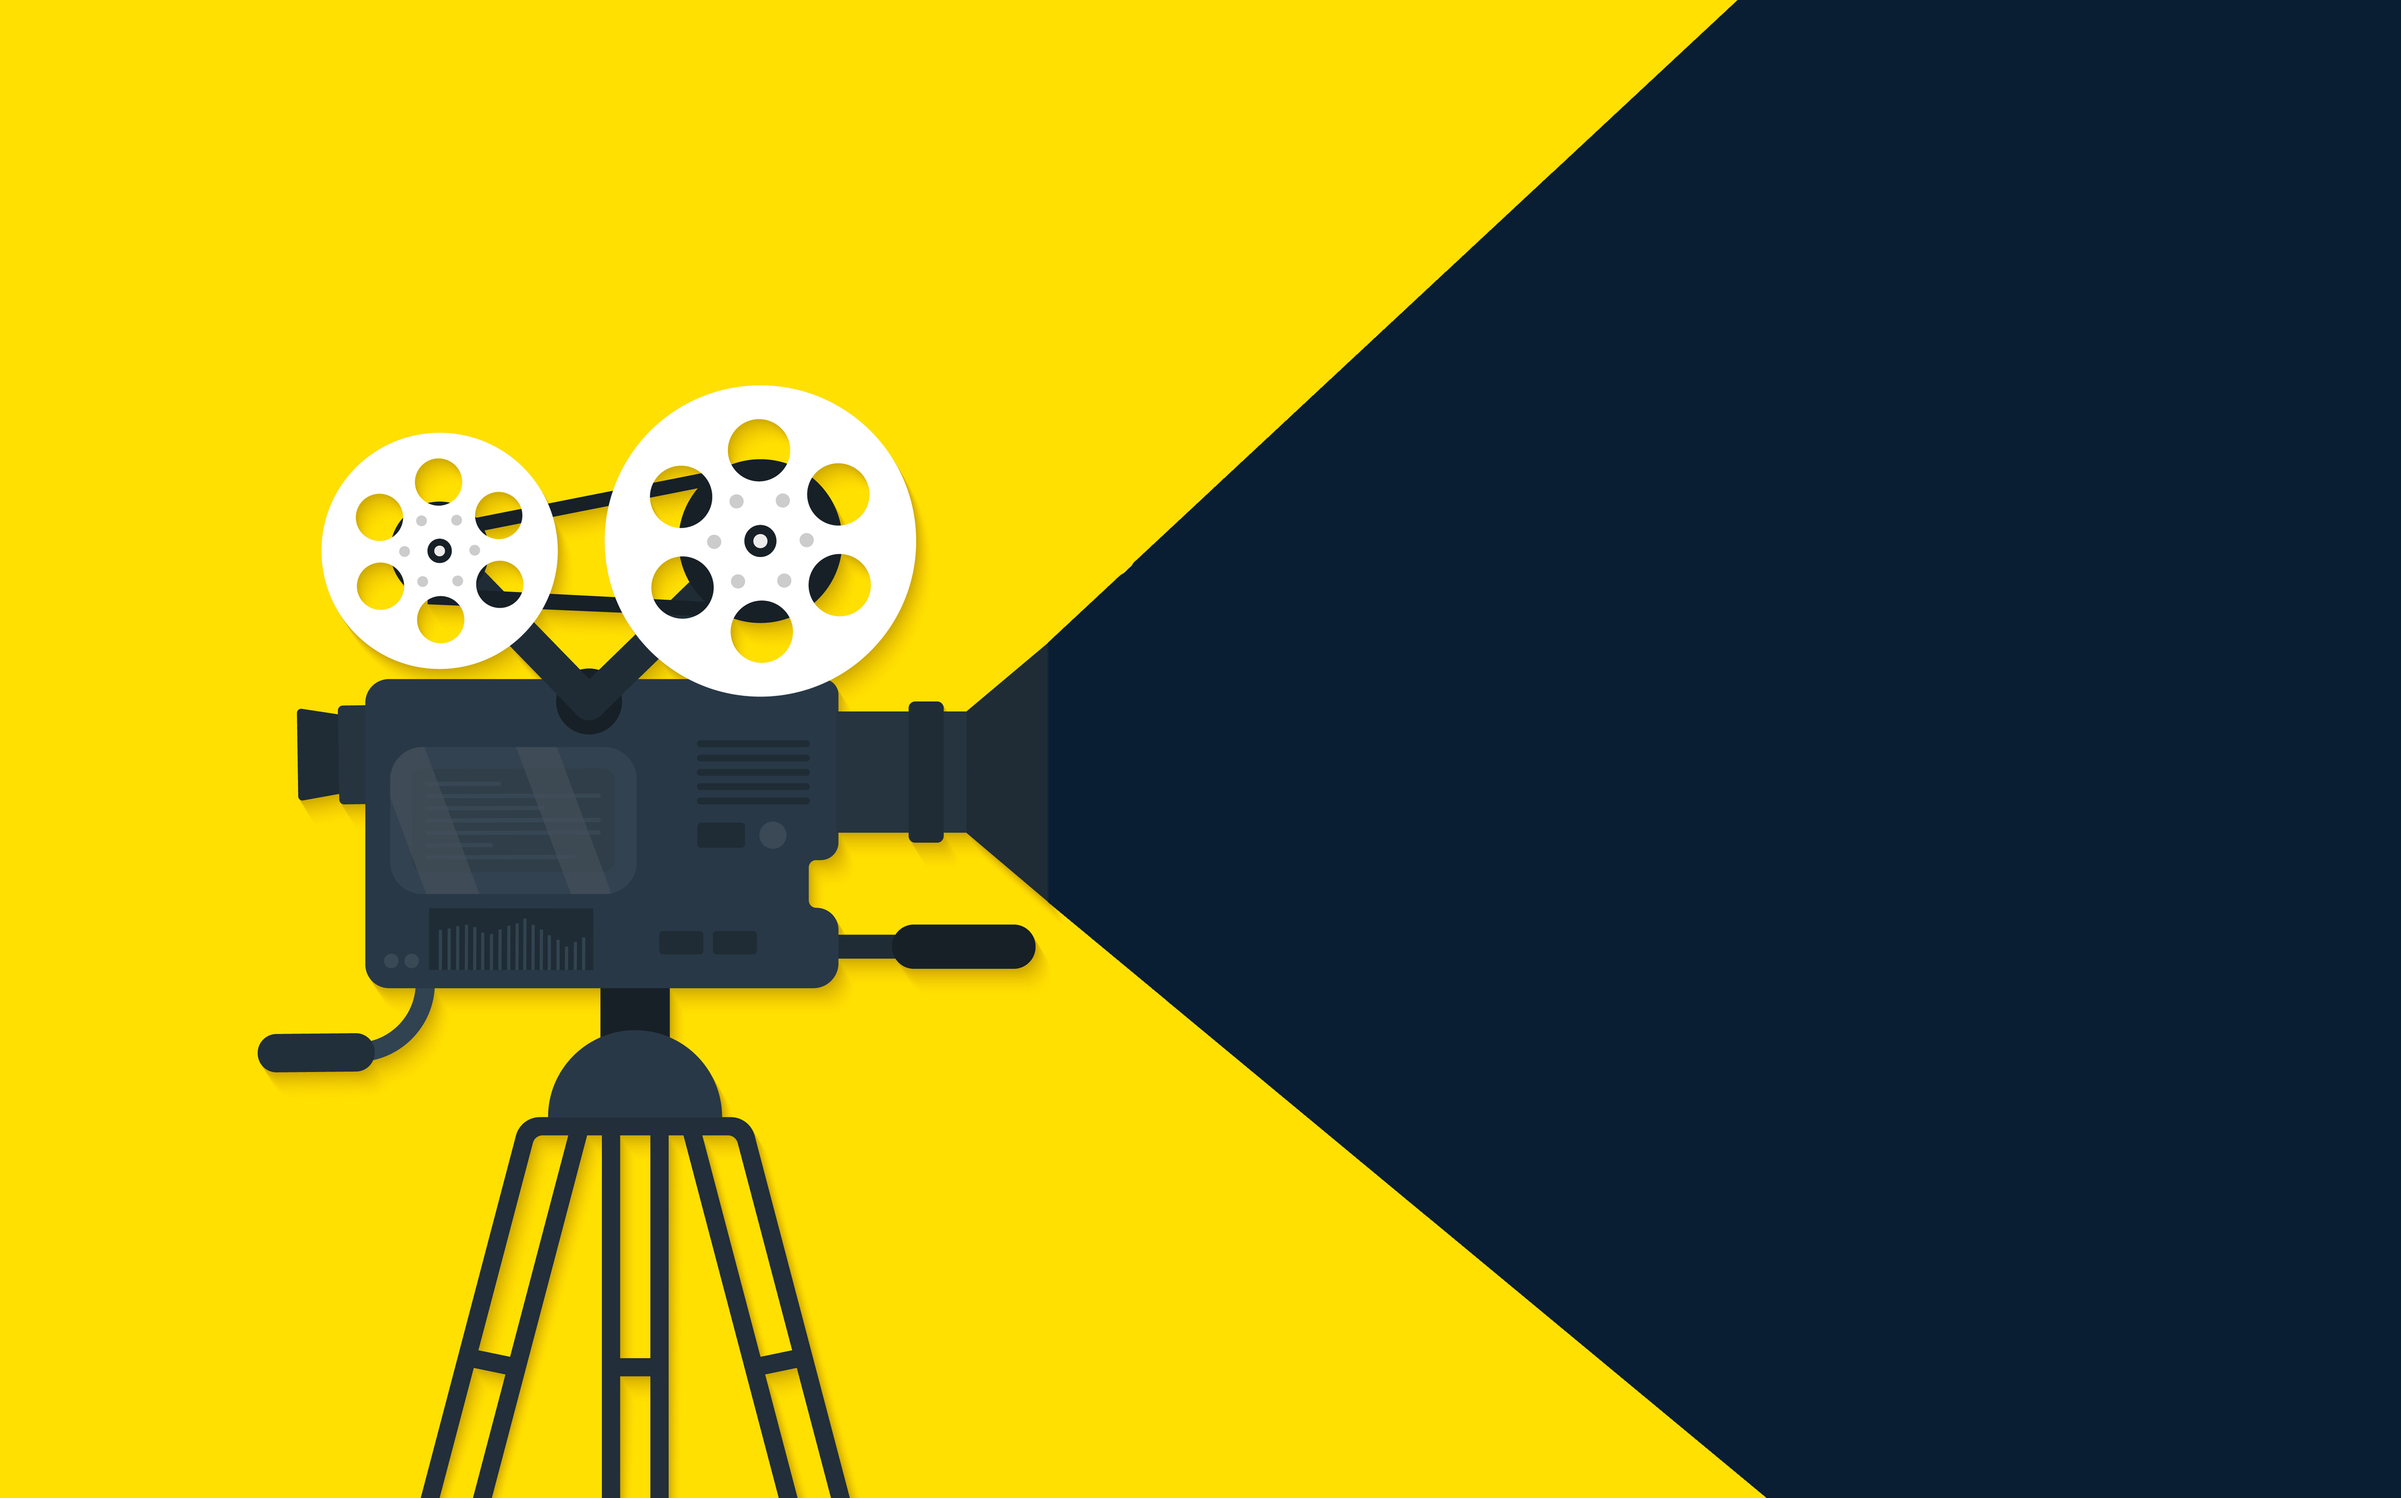
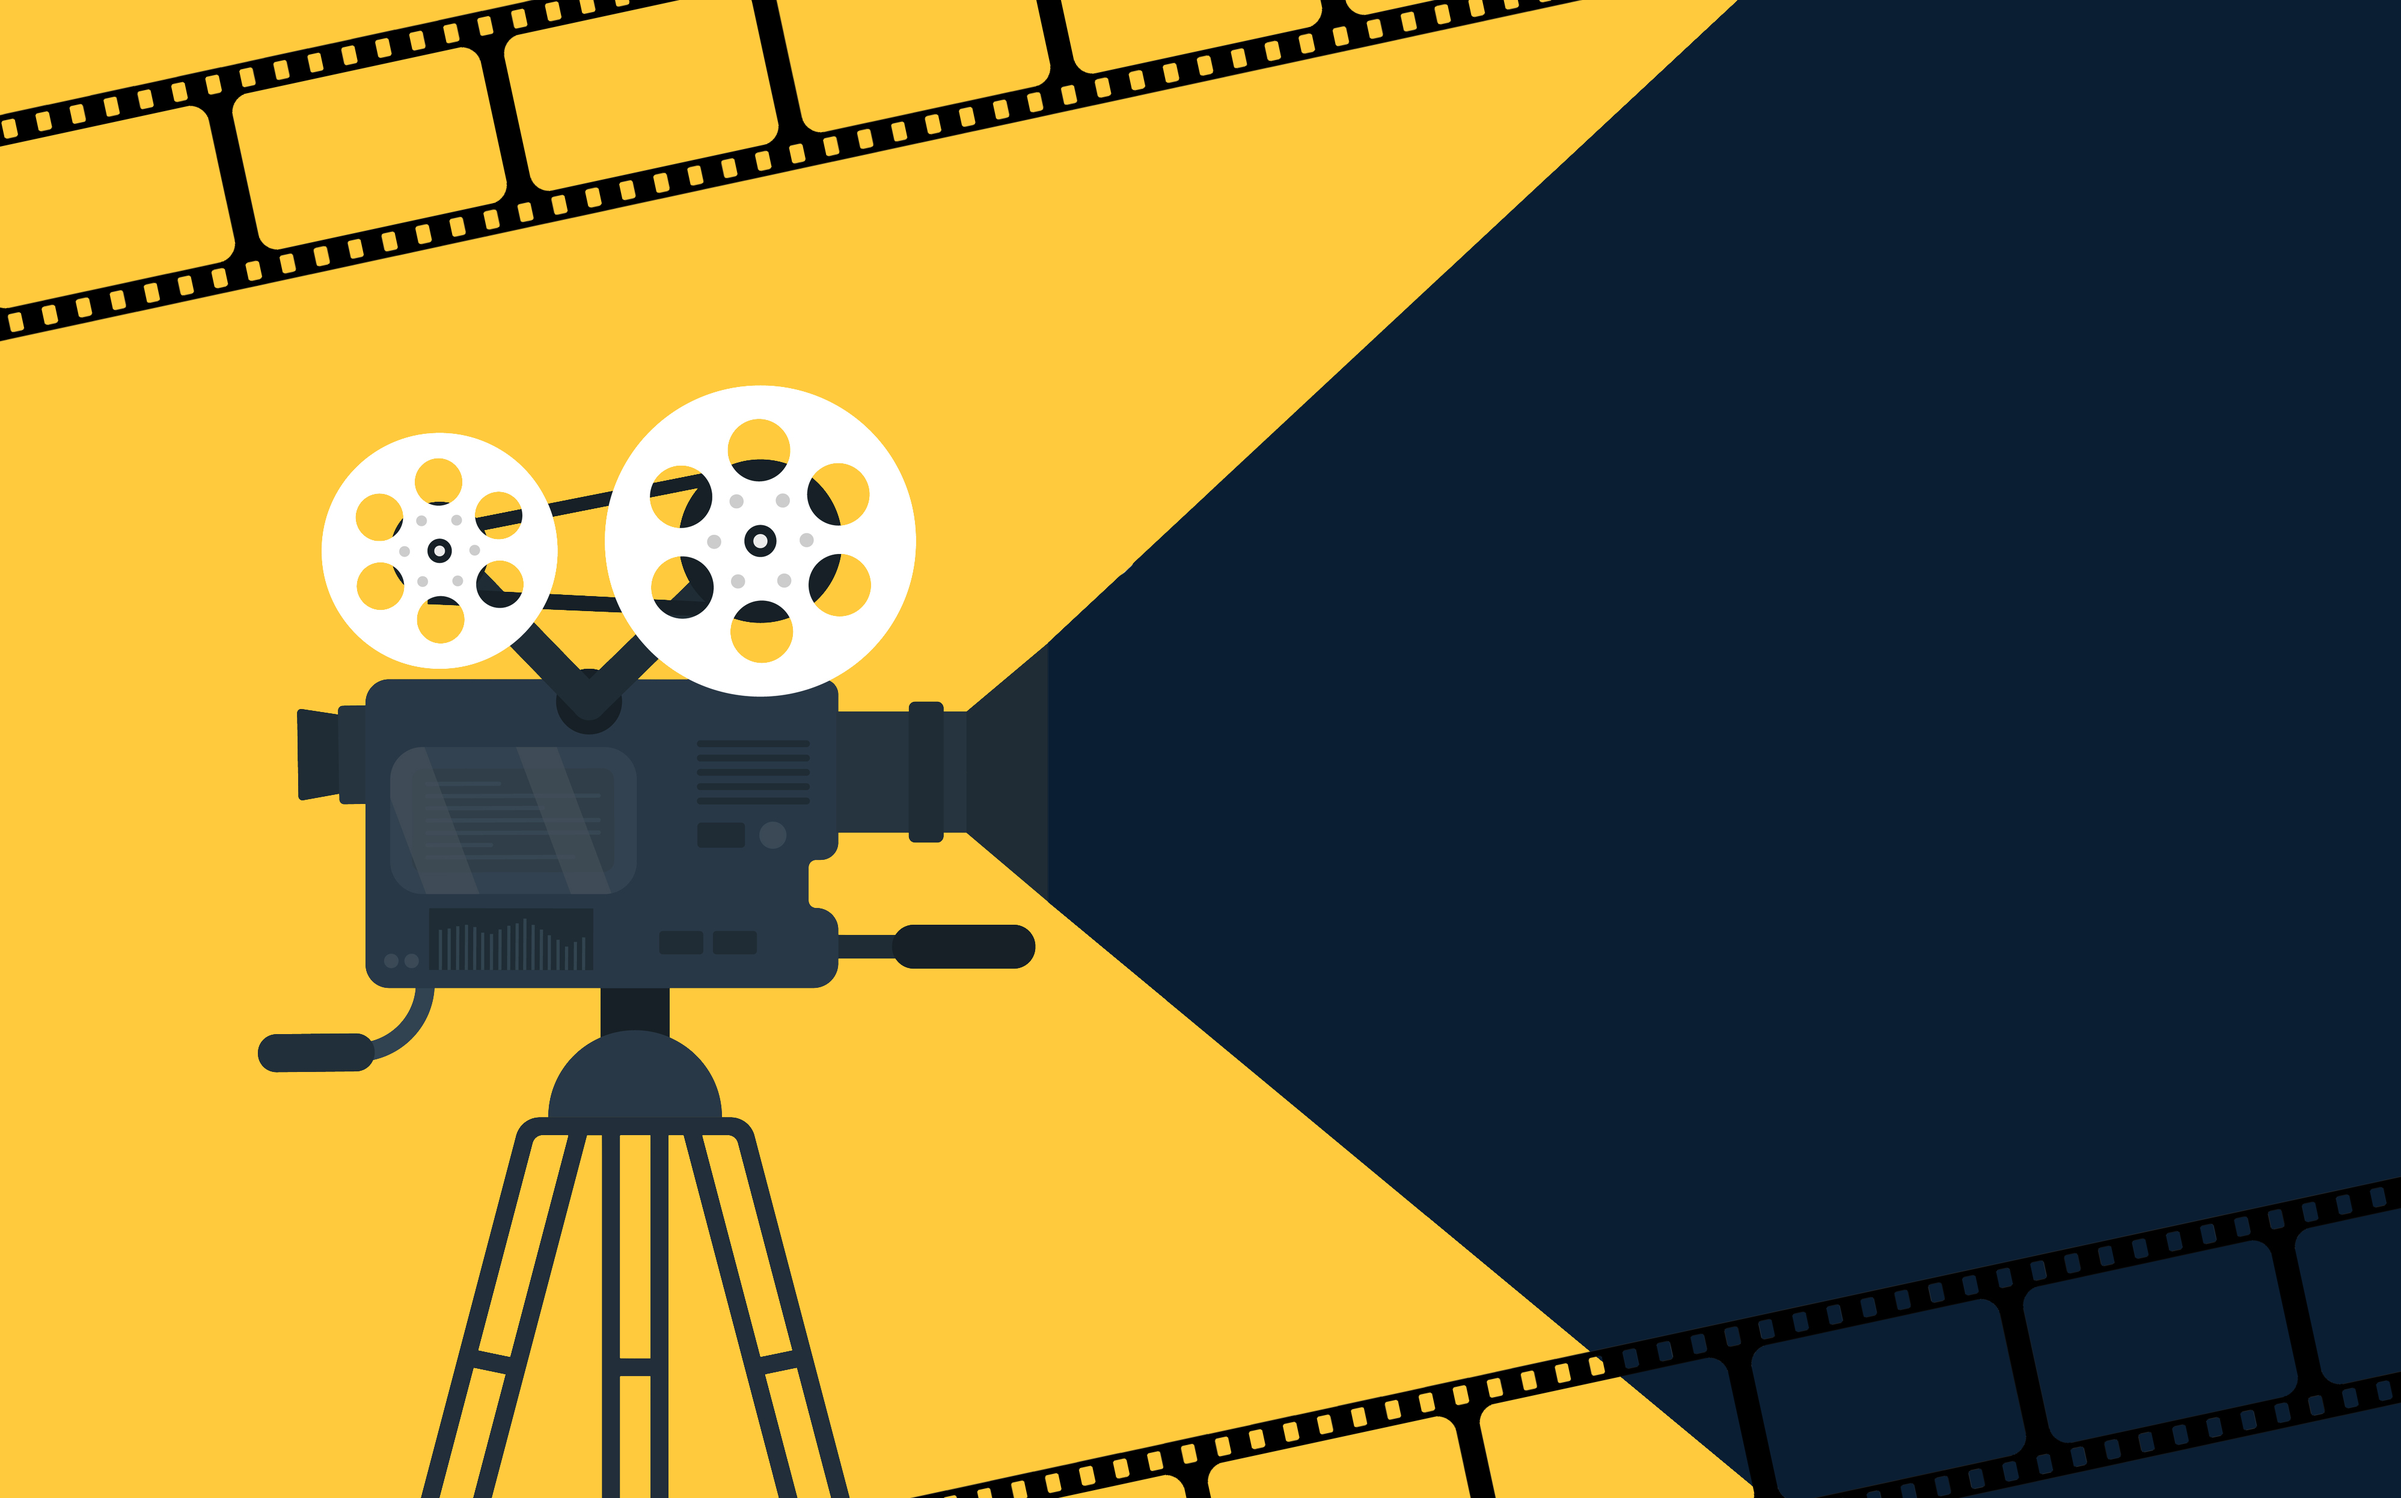
mudanças na homepage

diff --git a/public/index.css b/public/index.css
@@ -153,7 +153,7 @@ a :hover{
 }
 
 .fundohomepage {
-    background-image: url(img/pipocadiferente.png);
+    background-image: url(img/pipoca.png);
     background-position: center center;
     background-size: cover;
     padding: 300px 30px;
@@ -181,4 +181,8 @@ a :hover{
     border: none;
     box-shadow: 1px 1px 2px #0d0d0d;
     text-decoration: none;
+}
+
+.gordurinha {
+    padding: 65px 0px;
 }
